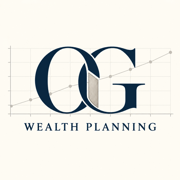
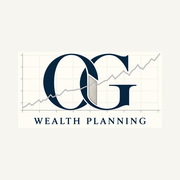
Apply final approved wealth or delegated insurance brand identity

Changed region(s): [[0.0556, 0.25, 0.8889, 0.75], [0.9167, 0.2778, 0.9722, 0.3056]]

diff --git a/privacy.html b/privacy.html
@@ -1,4 +1,4 @@
-<!doctype html><html lang="he" dir="rtl"><head><meta charset="utf-8"><meta name="viewport" content="width=device-width,initial-scale=1"><title>מדיניות פרטיות | אור גולדברג - תכנון עושר אישי בראייה רחבה</title><link rel="stylesheet" href="/legal.css"><link rel="canonical" href="https://orgoldberg.com/privacy.html"><meta name="robots" content="noindex,follow"><meta name="theme-color" content="#06231A"><link rel="apple-touch-icon" sizes="180x180" href="/assets/apple-touch-icon.png"></head><body><a class="skip-link" href="#main-content">דילוג לתוכן</a><main id="main-content" class="legal-page" tabindex="-1"><a href="/">חזרה לאתר אור גולדברג - תכנון עושר אישי בראייה רחבה</a><h1>מדיניות פרטיות</h1><p>עודכן: 8 בנובמבר 2026</p><h2>מי מפעיל את האתר</h2><p>האתר orgoldberg.com, תחת המותג אור גולדברג - תכנון עושר אישי בראייה רחבה, מופעל בידי אור גולדברג. לפניות בנושא פרטיות, עיון במידע או תיקונו: <a href="mailto:orws88@gmail.com">orws88@gmail.com</a>.</p><h2>גלישה באתר</h2><p>במועד העדכון זהו אתר מידע ללא טופס פנייה או הרשמה. בדפים הציבוריים פועלים שני כלי מדידה: (1) Cloudflare Web Analytics — מדידה סטטיסטית של צפיות וביקורים ללא עוגיות וללא מעקב אחר גולשים בודדים, הפועלת אוטומטית; (2) Google Analytics 4 של Google — מדידה מבוססת עוגיות המופעלת רק לאחר אישור בבאנר ההסכמה, עם אנונימיזציה של כתובת IP. הבחירה נשמרת באחסון המקומי של הדפדפן (og-analytics-consent) וניתנת לשינוי בכל עת על ידי ניקוי נתוני האתר בדפדפן. נתוני Google Analytics נשמרים עד 14 חודשים. בנוסף נרשמות לחיצות על קישורי טלפון, WhatsApp ודוא"ל כאירועי מדידה. קובצי האתר, הגופנים ותוסף הנגישות מוגשים מאירוח האתר, ללא טעינת תוסף מרשת הפצה חיצונית.</p><p>האתר מאוחסן ב-GitHub Pages. לפי <a href="https://docs.github.com/en/pages/getting-started-with-github-pages/what-is-github-pages">תיעוד GitHub</a>, כתובת ה-IP של המבקר נרשמת ונשמרת בידי ספק האירוח לצורכי אבטחה, גם ללא כניסה לחשבון GitHub. מידע נוסף ב<a href="https://docs.github.com/en/site-policy/privacy-policies/github-general-privacy-statement">מדיניות GitHub</a>. אין כאן הבטחה להעדר איסוף מידע טכני.</p><h2>העדפות נגישות במכשיר</h2><p>תוסף הנגישות OpenNagish שומר את הבחירות שלכם באחסון המקומי של הדפדפן תחת opennagish_prefs, כדי להחיל אותן בביקור הבא. ניתן לאפס אותן בתפריט התוסף או לנקות נתוני אתר בדפדפן. בבדיקת הקוד של הגרסה המוגשת לא נמצא מנגנון דיווח נתונים לשרת של מפתח התוסף. הקראה, אם בחרתם להפעיל אותה, משתמשת ביכולת הדיבור של הדפדפן וכפופה למימוש ולתנאי הדפדפן והמכשיר.</p><h2>פנייה בטלפון או ב-WhatsApp</h2><p>הפנייה לבחירתכם ואינה חובה. לחיצה על קישור עוברת לשירות חיצוני, שהשימוש בו כפוף לתנאיו ולמדיניותו. אם תפנו, נקבל את הפרטים שמסרתם, כגון שם, מספר טלפון ותוכן הפנייה, לצורך טיפול בפנייה וחזרה אליכם. בלי פרטי קשר או מידע חיוני ייתכן שלא נוכל להשיב. אין לשלוח בפנייה ראשונית מסמכים פיננסיים, מידע רפואי, סיסמאות או מידע סודי.</p><p>פנייה אינה הסכמה אוטומטית לדיוור שיווקי. אין להעביר פנייה למותג אחר או למטרה חדשה ללא יידוע ובסיס מתאים.</p><h2>טיפול נוסף במידע</h2><p>מדיניות זו מתארת את הגלישה ואת הפנייה הראשונית. לפני איסוף מידע רגיש, פתיחת תיק לקוח או הפעלת שירות AI המטפל בפנייה, יימסרו פרטים על השירות, בעלי הגישה והספקים הרלוונטיים. אין לשלוח מידע נוסף כזה עד להסדרת ערוץ מתאים. מדיניות זו אינה מצהירה שקיים מענה AI פעיל או מנגנון מחיקה אוטומטי.</p><h2>זכויות ושמירה</h2><p>ניתן לפנות בבקשה לעיון, תיקון או מחיקה של מידע. הבקשה תיבדק לאחר אימות מתאים ובכפוף לדין ולחובות שמירה החלות על שירות מקצועי. לפניות פרטיות: <a href="mailto:orws88@gmail.com">orws88@gmail.com</a>. אין כאן הבטחה למחיקה אוטומטית או גורפת של גיבויים.</p><h2>עדכונים</h2><p>שינוי מהותי בטיפול במידע ילווה בעדכון המדיניות וביידוע או בקבלת הסכמה כאשר נדרשים. תאריך העדכון מופיע בראש הדף.</p></main><footer class="legal-footer"><nav class="legal-links" aria-label="מידע משפטי ונגישות"><a href="/terms.html">תקנון ותנאי שימוש</a><a href="/privacy.html">מדיניות פרטיות</a><a href="/accessibility.html">הצהרת נגישות</a></nav><p>אור גולדברג · <a href="mailto:orws88@gmail.com">orws88@gmail.com</a> · <a href="tel:+972545696422"><bdi>054-569-6422</bdi></a></p></footer><script src="/assets/accessibility/config.js" defer></script><script src="/assets/accessibility/open-nagish.min.js" defer></script><!-- Site analytics: consent banner + GA4 (consent-gated) + Cloudflare Web Analytics (cookieless) -->
+<!doctype html><html lang="he" dir="rtl"><head><meta charset="utf-8"><meta name="viewport" content="width=device-width,initial-scale=1"><title>מדיניות פרטיות | אור גולדברג - תכנון עושר אישי בראייה רחבה</title><link rel="stylesheet" href="/legal.css"><link rel="canonical" href="https://orgoldberg.com/privacy.html"><meta name="robots" content="noindex,follow"><meta name="theme-color" content="#06231A"><link rel="apple-touch-icon" sizes="180x180" href="/assets/apple-touch-icon.png?v=20261110-final"></head><body><a class="skip-link" href="#main-content">דילוג לתוכן</a><main id="main-content" class="legal-page" tabindex="-1"><a href="/">חזרה לאתר אור גולדברג - תכנון עושר אישי בראייה רחבה</a><h1>מדיניות פרטיות</h1><p>עודכן: 8 בנובמבר 2026</p><h2>מי מפעיל את האתר</h2><p>האתר orgoldberg.com, תחת המותג אור גולדברג - תכנון עושר אישי בראייה רחבה, מופעל בידי אור גולדברג. לפניות בנושא פרטיות, עיון במידע או תיקונו: <a href="mailto:orws88@gmail.com">orws88@gmail.com</a>.</p><h2>גלישה באתר</h2><p>במועד העדכון זהו אתר מידע ללא טופס פנייה או הרשמה. בדפים הציבוריים פועלים שני כלי מדידה: (1) Cloudflare Web Analytics — מדידה סטטיסטית של צפיות וביקורים ללא עוגיות וללא מעקב אחר גולשים בודדים, הפועלת אוטומטית; (2) Google Analytics 4 של Google — מדידה מבוססת עוגיות המופעלת רק לאחר אישור בבאנר ההסכמה, עם אנונימיזציה של כתובת IP. הבחירה נשמרת באחסון המקומי של הדפדפן (og-analytics-consent) וניתנת לשינוי בכל עת על ידי ניקוי נתוני האתר בדפדפן. נתוני Google Analytics נשמרים עד 14 חודשים. בנוסף נרשמות לחיצות על קישורי טלפון, WhatsApp ודוא"ל כאירועי מדידה. קובצי האתר, הגופנים ותוסף הנגישות מוגשים מאירוח האתר, ללא טעינת תוסף מרשת הפצה חיצונית.</p><p>האתר מאוחסן ב-GitHub Pages. לפי <a href="https://docs.github.com/en/pages/getting-started-with-github-pages/what-is-github-pages">תיעוד GitHub</a>, כתובת ה-IP של המבקר נרשמת ונשמרת בידי ספק האירוח לצורכי אבטחה, גם ללא כניסה לחשבון GitHub. מידע נוסף ב<a href="https://docs.github.com/en/site-policy/privacy-policies/github-general-privacy-statement">מדיניות GitHub</a>. אין כאן הבטחה להעדר איסוף מידע טכני.</p><h2>העדפות נגישות במכשיר</h2><p>תוסף הנגישות OpenNagish שומר את הבחירות שלכם באחסון המקומי של הדפדפן תחת opennagish_prefs, כדי להחיל אותן בביקור הבא. ניתן לאפס אותן בתפריט התוסף או לנקות נתוני אתר בדפדפן. בבדיקת הקוד של הגרסה המוגשת לא נמצא מנגנון דיווח נתונים לשרת של מפתח התוסף. הקראה, אם בחרתם להפעיל אותה, משתמשת ביכולת הדיבור של הדפדפן וכפופה למימוש ולתנאי הדפדפן והמכשיר.</p><h2>פנייה בטלפון או ב-WhatsApp</h2><p>הפנייה לבחירתכם ואינה חובה. לחיצה על קישור עוברת לשירות חיצוני, שהשימוש בו כפוף לתנאיו ולמדיניותו. אם תפנו, נקבל את הפרטים שמסרתם, כגון שם, מספר טלפון ותוכן הפנייה, לצורך טיפול בפנייה וחזרה אליכם. בלי פרטי קשר או מידע חיוני ייתכן שלא נוכל להשיב. אין לשלוח בפנייה ראשונית מסמכים פיננסיים, מידע רפואי, סיסמאות או מידע סודי.</p><p>פנייה אינה הסכמה אוטומטית לדיוור שיווקי. אין להעביר פנייה למותג אחר או למטרה חדשה ללא יידוע ובסיס מתאים.</p><h2>טיפול נוסף במידע</h2><p>מדיניות זו מתארת את הגלישה ואת הפנייה הראשונית. לפני איסוף מידע רגיש, פתיחת תיק לקוח או הפעלת שירות AI המטפל בפנייה, יימסרו פרטים על השירות, בעלי הגישה והספקים הרלוונטיים. אין לשלוח מידע נוסף כזה עד להסדרת ערוץ מתאים. מדיניות זו אינה מצהירה שקיים מענה AI פעיל או מנגנון מחיקה אוטומטי.</p><h2>זכויות ושמירה</h2><p>ניתן לפנות בבקשה לעיון, תיקון או מחיקה של מידע. הבקשה תיבדק לאחר אימות מתאים ובכפוף לדין ולחובות שמירה החלות על שירות מקצועי. לפניות פרטיות: <a href="mailto:orws88@gmail.com">orws88@gmail.com</a>. אין כאן הבטחה למחיקה אוטומטית או גורפת של גיבויים.</p><h2>עדכונים</h2><p>שינוי מהותי בטיפול במידע ילווה בעדכון המדיניות וביידוע או בקבלת הסכמה כאשר נדרשים. תאריך העדכון מופיע בראש הדף.</p></main><footer class="legal-footer"><nav class="legal-links" aria-label="מידע משפטי ונגישות"><a href="/terms.html">תקנון ותנאי שימוש</a><a href="/privacy.html">מדיניות פרטיות</a><a href="/accessibility.html">הצהרת נגישות</a></nav><p>אור גולדברג · <a href="mailto:orws88@gmail.com">orws88@gmail.com</a> · <a href="tel:+972545696422"><bdi>054-569-6422</bdi></a></p></footer><script src="/assets/accessibility/config.js" defer></script><script src="/assets/accessibility/open-nagish.min.js" defer></script><!-- Site analytics: consent banner + GA4 (consent-gated) + Cloudflare Web Analytics (cookieless) -->
 <script>
 (function(){
   var GA_ID='G-ND92RKX6HL', CF_TOKEN='222b8e0c30a34464a471d2021f984e12', ACCENT='#B08A2E';

diff --git a/terms.html b/terms.html
@@ -1,4 +1,4 @@
-<!doctype html><html lang="he" dir="rtl"><head><meta charset="utf-8"><meta name="viewport" content="width=device-width,initial-scale=1"><title>תקנון ותנאי שימוש | אור גולדברג - תכנון עושר אישי בראייה רחבה</title><link rel="stylesheet" href="/legal.css"><link rel="canonical" href="https://orgoldberg.com/terms.html"><meta name="robots" content="noindex,follow"><meta name="theme-color" content="#06231A"><link rel="apple-touch-icon" sizes="180x180" href="/assets/apple-touch-icon.png"></head><body><a class="skip-link" href="#main-content">דילוג לתוכן</a><main id="main-content" class="legal-page" tabindex="-1"><a href="/">חזרה לאתר אור גולדברג - תכנון עושר אישי בראייה רחבה</a><h1>תקנון ותנאי שימוש</h1><p>עודכן: 6 בנובמבר 2026</p><h2>מפעיל האתר והשירות</h2><p>האתר orgoldberg.com מופעל בידי אור גולדברג, תחת המותג אור גולדברג - תכנון עושר אישי בראייה רחבה. לפניות: <a href="mailto:orws88@gmail.com">orws88@gmail.com</a> או <a href="tel:+972545696422"><bdi>054-569-6422</bdi></a>.</p><p>האתר מציג מידע כללי על השירותים. גלישה או פנייה אינן יוצרות כשלעצמן התקשרות מקצועית או התחייבות למתן שירות. היקף השירות, התמורה, האחריות ולוחות הזמנים ייקבעו בהסכם נפרד, לפי העניין.</p><h2>המידע באתר</h2><p>התכנים הם מידע כללי והמחשה בלבד. אין בהם המלצה למוצר או לפעולה בנכס מסוים, והם אינם תחליף לבירור אישי ולהליך מקצועי מתאים. לא ניתן ייעוץ השקעות בניירות ערך או בנכסים פיננסיים לפי חוק ייעוץ השקעות. הלקוח מחליט ומאשר כל פעולה.</p><p>השקעות ומוצרים פיננסיים כרוכים בסיכון להפסד. אין התחייבות לתשואה, לרווח, לשמירת הקרן או להשגת יעד. תשואות עבר אינן מבטיחות תשואות עתיד.</p><h2>רישיון ותגמול</h2><p>אור גולדברג, מתכנן פיננסי, משפטן וכלכלן, בעל רישיון בענף הפנסיוני, מס' רישיון <bdi>L-00135592</bdi>. תגמול: שכר מלקוחות ועמלות מחברות ביטוח וגופים מוסדיים. הפירוט נמסר לפני התקשרות.</p><h2>שימוש מותר וקישורים</h2><p>יש להשתמש באתר כדין, בלי לפגוע בפרטיות, בזכויות אחרים או בתקינות האתר. הזכויות בתכנים שמורות לבעליהן, בכפוף לכל שימוש מותר לפי דין. קישורים לשירותים חיצוניים כפופים לתנאי אותם שירותים; עצם הקישור אינו התחייבות לזמינות או להתאמה.</p><h2>אחריות ודין</h2><p>אחריות המפעיל תיבחן לפי הדין והסכם השירות החל. אין בתנאים אלה פטור מאחריות שהדין אינו מתיר לפטור ממנה או ויתור על זכויות שאינן ניתנות להתניה. הדין הישראלי יחול בכפוף להוראות דין מחייבות; סמכות השיפוט תיקבע לפי הדין.</p></main><footer class="legal-footer"><nav class="legal-links" aria-label="מידע משפטי ונגישות"><a href="/terms.html">תקנון ותנאי שימוש</a><a href="/privacy.html">מדיניות פרטיות</a><a href="/accessibility.html">הצהרת נגישות</a></nav><p>אור גולדברג · <a href="mailto:orws88@gmail.com">orws88@gmail.com</a> · <a href="tel:+972545696422"><bdi>054-569-6422</bdi></a></p></footer><script src="/assets/accessibility/config.js" defer></script><script src="/assets/accessibility/open-nagish.min.js" defer></script><!-- Site analytics: consent banner + GA4 (consent-gated) + Cloudflare Web Analytics (cookieless) -->
+<!doctype html><html lang="he" dir="rtl"><head><meta charset="utf-8"><meta name="viewport" content="width=device-width,initial-scale=1"><title>תקנון ותנאי שימוש | אור גולדברג - תכנון עושר אישי בראייה רחבה</title><link rel="stylesheet" href="/legal.css"><link rel="canonical" href="https://orgoldberg.com/terms.html"><meta name="robots" content="noindex,follow"><meta name="theme-color" content="#06231A"><link rel="apple-touch-icon" sizes="180x180" href="/assets/apple-touch-icon.png?v=20261110-final"></head><body><a class="skip-link" href="#main-content">דילוג לתוכן</a><main id="main-content" class="legal-page" tabindex="-1"><a href="/">חזרה לאתר אור גולדברג - תכנון עושר אישי בראייה רחבה</a><h1>תקנון ותנאי שימוש</h1><p>עודכן: 6 בנובמבר 2026</p><h2>מפעיל האתר והשירות</h2><p>האתר orgoldberg.com מופעל בידי אור גולדברג, תחת המותג אור גולדברג - תכנון עושר אישי בראייה רחבה. לפניות: <a href="mailto:orws88@gmail.com">orws88@gmail.com</a> או <a href="tel:+972545696422"><bdi>054-569-6422</bdi></a>.</p><p>האתר מציג מידע כללי על השירותים. גלישה או פנייה אינן יוצרות כשלעצמן התקשרות מקצועית או התחייבות למתן שירות. היקף השירות, התמורה, האחריות ולוחות הזמנים ייקבעו בהסכם נפרד, לפי העניין.</p><h2>המידע באתר</h2><p>התכנים הם מידע כללי והמחשה בלבד. אין בהם המלצה למוצר או לפעולה בנכס מסוים, והם אינם תחליף לבירור אישי ולהליך מקצועי מתאים. לא ניתן ייעוץ השקעות בניירות ערך או בנכסים פיננסיים לפי חוק ייעוץ השקעות. הלקוח מחליט ומאשר כל פעולה.</p><p>השקעות ומוצרים פיננסיים כרוכים בסיכון להפסד. אין התחייבות לתשואה, לרווח, לשמירת הקרן או להשגת יעד. תשואות עבר אינן מבטיחות תשואות עתיד.</p><h2>רישיון ותגמול</h2><p>אור גולדברג, מתכנן פיננסי, משפטן וכלכלן, בעל רישיון בענף הפנסיוני, מס' רישיון <bdi>L-00135592</bdi>. תגמול: שכר מלקוחות ועמלות מחברות ביטוח וגופים מוסדיים. הפירוט נמסר לפני התקשרות.</p><h2>שימוש מותר וקישורים</h2><p>יש להשתמש באתר כדין, בלי לפגוע בפרטיות, בזכויות אחרים או בתקינות האתר. הזכויות בתכנים שמורות לבעליהן, בכפוף לכל שימוש מותר לפי דין. קישורים לשירותים חיצוניים כפופים לתנאי אותם שירותים; עצם הקישור אינו התחייבות לזמינות או להתאמה.</p><h2>אחריות ודין</h2><p>אחריות המפעיל תיבחן לפי הדין והסכם השירות החל. אין בתנאים אלה פטור מאחריות שהדין אינו מתיר לפטור ממנה או ויתור על זכויות שאינן ניתנות להתניה. הדין הישראלי יחול בכפוף להוראות דין מחייבות; סמכות השיפוט תיקבע לפי הדין.</p></main><footer class="legal-footer"><nav class="legal-links" aria-label="מידע משפטי ונגישות"><a href="/terms.html">תקנון ותנאי שימוש</a><a href="/privacy.html">מדיניות פרטיות</a><a href="/accessibility.html">הצהרת נגישות</a></nav><p>אור גולדברג · <a href="mailto:orws88@gmail.com">orws88@gmail.com</a> · <a href="tel:+972545696422"><bdi>054-569-6422</bdi></a></p></footer><script src="/assets/accessibility/config.js" defer></script><script src="/assets/accessibility/open-nagish.min.js" defer></script><!-- Site analytics: consent banner + GA4 (consent-gated) + Cloudflare Web Analytics (cookieless) -->
 <script>
 (function(){
   var GA_ID='G-ND92RKX6HL', CF_TOKEN='222b8e0c30a34464a471d2021f984e12', ACCENT='#B08A2E';

diff --git a/accessibility.html b/accessibility.html
@@ -1,4 +1,4 @@
-<!doctype html><html lang="he" dir="rtl"><head><meta charset="utf-8"><meta name="viewport" content="width=device-width,initial-scale=1"><title>הצהרת נגישות | אור גולדברג - תכנון עושר אישי בראייה רחבה</title><link rel="stylesheet" href="/legal.css"><link rel="canonical" href="https://orgoldberg.com/accessibility.html"><meta name="robots" content="noindex,follow"><meta name="theme-color" content="#06231A"><link rel="apple-touch-icon" sizes="180x180" href="/assets/apple-touch-icon.png"></head><body><a class="skip-link" href="#main-content">דילוג לתוכן</a><main id="main-content" class="legal-page" tabindex="-1"><a href="/">חזרה לאתר אור גולדברג - תכנון עושר אישי בראייה רחבה</a><h1>הצהרת נגישות</h1><p>עודכן: 6 בנובמבר 2026</p><h2>נגישות האתר</h2><p>אנו פועלים לשפר את נגישות האתר בהתאם לדרישות החלות בישראל וליעד ת"י 5568 והנחיות WCAG 2.0 ברמה AA. הוספת תוסף אינה אישור תאימות, ואיננו מציגים כאן הסמכה או טענה שבוצעה בדיקת נגישות מלאה.</p><h2>התאמות באתר</h2><ul><li>שפת דף וכיוון עברית, כותרות מדורגות וחלופות טקסט לתמונות.</li><li>קישור דילוג לתוכן, סימון פוקוס ברור וקישורים נגישים למקלדת.</li><li>התאמה למסכים צרים ותמיכה בהעדפת צמצום תנועה של המכשיר.</li><li>סרגל נגישות חינמי בעברית: התאמות גודל טקסט, ניגודיות, קישורים, פוקוס, עזרי קריאה ואיפוס. העדפות נשמרות בדפדפן בלבד.</li></ul><h2>שימוש במקלדת ובסרגל</h2><p>אפשר לעבור בין קישורים וכפתורים באמצעות Tab ו-Shift+Tab, ולהפעילם באמצעות Enter או רווח לפי סוג הרכיב. כפתור הנגישות נמצא בתחתית המסך. Alt+A פותח וסוגר את הסרגל; Escape סוגר אותו. אפשר להגדיל את האתר גם באמצעות בקרת ההגדלה בדפדפן.</p><h2>בדיקה ומגבלות</h2><p>בוצעה בדיקה פנימית נקודתית בעת העדכון של מבנה הדף, מקלדת ופוקוס, ניגודיות וטקסט מוגדל, וכן תצוגה במחשב ובנייד. זו אינה בדיקת מורשה נגישות או אישור מלא לכל טכנולוגיה מסייעת. הקראה תלויה בקולות הזמינים בדפדפן; אין הבטחה שקול עברי זמין בכל מכשיר. שירותים חיצוניים שאליהם מפנים קישורים נמצאים באחריות מפעיליהם.</p><h2>קשר וסיוע</h2><p>נתקלתם בקושי? פנו לאור גולדברג בכתובת <a href="mailto:orws88@gmail.com">orws88@gmail.com</a> או בטלפון <a href="tel:+972545696422"><bdi>054-569-6422</bdi></a>. אפשר לציין את כתובת הדף, הפעולה שניסיתם לבצע, הדפדפן וסוג הקושי, ללא מידע רגיש. נבדוק את הפנייה ונפעל לספק את המידע בדרך מתאימה.</p></main><footer class="legal-footer"><nav class="legal-links" aria-label="מידע משפטי ונגישות"><a href="/terms.html">תקנון ותנאי שימוש</a><a href="/privacy.html">מדיניות פרטיות</a><a href="/accessibility.html">הצהרת נגישות</a></nav><p>אור גולדברג · <a href="mailto:orws88@gmail.com">orws88@gmail.com</a> · <a href="tel:+972545696422"><bdi>054-569-6422</bdi></a></p></footer><script src="/assets/accessibility/config.js" defer></script><script src="/assets/accessibility/open-nagish.min.js" defer></script><!-- Site analytics: consent banner + GA4 (consent-gated) + Cloudflare Web Analytics (cookieless) -->
+<!doctype html><html lang="he" dir="rtl"><head><meta charset="utf-8"><meta name="viewport" content="width=device-width,initial-scale=1"><title>הצהרת נגישות | אור גולדברג - תכנון עושר אישי בראייה רחבה</title><link rel="stylesheet" href="/legal.css"><link rel="canonical" href="https://orgoldberg.com/accessibility.html"><meta name="robots" content="noindex,follow"><meta name="theme-color" content="#06231A"><link rel="apple-touch-icon" sizes="180x180" href="/assets/apple-touch-icon.png?v=20261110-final"></head><body><a class="skip-link" href="#main-content">דילוג לתוכן</a><main id="main-content" class="legal-page" tabindex="-1"><a href="/">חזרה לאתר אור גולדברג - תכנון עושר אישי בראייה רחבה</a><h1>הצהרת נגישות</h1><p>עודכן: 6 בנובמבר 2026</p><h2>נגישות האתר</h2><p>אנו פועלים לשפר את נגישות האתר בהתאם לדרישות החלות בישראל וליעד ת"י 5568 והנחיות WCAG 2.0 ברמה AA. הוספת תוסף אינה אישור תאימות, ואיננו מציגים כאן הסמכה או טענה שבוצעה בדיקת נגישות מלאה.</p><h2>התאמות באתר</h2><ul><li>שפת דף וכיוון עברית, כותרות מדורגות וחלופות טקסט לתמונות.</li><li>קישור דילוג לתוכן, סימון פוקוס ברור וקישורים נגישים למקלדת.</li><li>התאמה למסכים צרים ותמיכה בהעדפת צמצום תנועה של המכשיר.</li><li>סרגל נגישות חינמי בעברית: התאמות גודל טקסט, ניגודיות, קישורים, פוקוס, עזרי קריאה ואיפוס. העדפות נשמרות בדפדפן בלבד.</li></ul><h2>שימוש במקלדת ובסרגל</h2><p>אפשר לעבור בין קישורים וכפתורים באמצעות Tab ו-Shift+Tab, ולהפעילם באמצעות Enter או רווח לפי סוג הרכיב. כפתור הנגישות נמצא בתחתית המסך. Alt+A פותח וסוגר את הסרגל; Escape סוגר אותו. אפשר להגדיל את האתר גם באמצעות בקרת ההגדלה בדפדפן.</p><h2>בדיקה ומגבלות</h2><p>בוצעה בדיקה פנימית נקודתית בעת העדכון של מבנה הדף, מקלדת ופוקוס, ניגודיות וטקסט מוגדל, וכן תצוגה במחשב ובנייד. זו אינה בדיקת מורשה נגישות או אישור מלא לכל טכנולוגיה מסייעת. הקראה תלויה בקולות הזמינים בדפדפן; אין הבטחה שקול עברי זמין בכל מכשיר. שירותים חיצוניים שאליהם מפנים קישורים נמצאים באחריות מפעיליהם.</p><h2>קשר וסיוע</h2><p>נתקלתם בקושי? פנו לאור גולדברג בכתובת <a href="mailto:orws88@gmail.com">orws88@gmail.com</a> או בטלפון <a href="tel:+972545696422"><bdi>054-569-6422</bdi></a>. אפשר לציין את כתובת הדף, הפעולה שניסיתם לבצע, הדפדפן וסוג הקושי, ללא מידע רגיש. נבדוק את הפנייה ונפעל לספק את המידע בדרך מתאימה.</p></main><footer class="legal-footer"><nav class="legal-links" aria-label="מידע משפטי ונגישות"><a href="/terms.html">תקנון ותנאי שימוש</a><a href="/privacy.html">מדיניות פרטיות</a><a href="/accessibility.html">הצהרת נגישות</a></nav><p>אור גולדברג · <a href="mailto:orws88@gmail.com">orws88@gmail.com</a> · <a href="tel:+972545696422"><bdi>054-569-6422</bdi></a></p></footer><script src="/assets/accessibility/config.js" defer></script><script src="/assets/accessibility/open-nagish.min.js" defer></script><!-- Site analytics: consent banner + GA4 (consent-gated) + Cloudflare Web Analytics (cookieless) -->
 <script>
 (function(){
   var GA_ID='G-ND92RKX6HL', CF_TOKEN='222b8e0c30a34464a471d2021f984e12', ACCENT='#B08A2E';

diff --git a/index.html b/index.html
@@ -14,11 +14,11 @@
 <script type="application/ld+json">
 {"@context":"https://schema.org","@graph":[{"@type":"ProfessionalService","name":"אור גולדברג - תכנון עושר אישי בראייה רחבה","url":"https://orgoldberg.com/","telephone":"+972-54-569-6422","areaServed":"קריית מוצקין והסביבה","sameAs":["https://www.instagram.com/or.goldberg.financial/","https://www.linkedin.com/company/or-goldberg-financial-planning/"],"description":"תכנון פיננסי כולל, פנסיה והשקעות, ומנוי ליווי חודשי לבעלי הון.","@id":"https://orgoldberg.com/#business","founder":{"@id":"https://orgoldberg.com/#or-goldberg"},"knowsAbout":["תכנון פיננסי כולל","פנסיה ופרישה","משפחה ודור הבא"]},{"@type":"Person","@id":"https://orgoldberg.com/#or-goldberg","name":"אור גולדברג","url":"https://orgoldberg.com/","hasCredential":{"@type":"EducationalOccupationalCredential","credentialCategory":"רישיון בענף הפנסיוני","identifier":"L-00135592"}},{"@type":"WebSite","@id":"https://orgoldberg.com/#website","url":"https://orgoldberg.com/","name":"אור גולדברג - תכנון עושר אישי בראייה רחבה","inLanguage":"he","publisher":{"@id":"https://orgoldberg.com/#business"}}]}
 </script>
-<link rel="icon" type="image/png" sizes="64x64" href="/assets/favicon.png">
+<link rel="icon" type="image/png" href="/assets/favicon.png?v=20261110-grey-final">
 <link rel="stylesheet" href="style.css?v=240f01b25ebd">
 <link rel="stylesheet" href="/legal.css"><script type="application/ld+json">{"@context": "https://schema.org", "@type": "FAQPage", "mainEntity": [{"@type": "Question", "name": "למי מתאים הליווי?", "acceptedAnswer": {"@type": "Answer", "text": "לבעלי הון מעל 4 מיליון ₪ שרוצים איש מקצוע אחד שרואה את כל התמונה - פנסיה, השקעות וחסכונות - וליווי קבוע לאורך זמן."}}, {"@type": "Question", "name": "כמה עולה הליווי?", "acceptedAnswer": {"@type": "Answer", "text": "תנאי מנוי הליווי נקבעים מול כל לקוח בפגישת ההיכרות. המנוי כולל ליווי שוטף. דמי ייעוץ נפרדים נגבים מהפגישה השנייה ואילך. במוצרים פנסיוניים (קופות גמל, קרנות השתלמות, פוליסות חיסכון, גמל להשקעה) ייתכנו עמלות מהחברות - בשקיפות מלאה מראש."}}, {"@type": "Question", "name": "מה קורה בפגישת ההיכרות?", "acceptedAnswer": {"@type": "Answer", "text": "שיחה קצרה על המצב, המטרות והשאלות שלכם. אם יש התאמה - מתחילים בתהליך מסודר."}}, {"@type": "Question", "name": "באילו תחומים ניתן הליווי?", "acceptedAnswer": {"@type": "Answer", "text": "תכנון פיננסי כולל, פנסיה ופרישה, השקעות וניהול הון, ומשפחה ודור הבא - חסכונות לילדים, העברות בין דוריות וסדר בירושות."}}]}</script>
 <meta name="theme-color" content="#06231A">
-<link rel="apple-touch-icon" sizes="180x180" href="/assets/apple-touch-icon.png">
+<link rel="apple-touch-icon" sizes="180x180" href="/assets/apple-touch-icon.png?v=20261110-final">
 </head><body><a class="skip-link" href="#main-content">דילוג לתוכן</a>
 <div class="site">
 <header class="topbar"><div class="wrap bar-in"><a class="brand-side brand-home" href="/" aria-label="בית"><img class="wealth-logo" src="assets/og-grid-line-approved.webp" alt="OG Wealth Planning" width="1012" height="535" decoding="async" loading="eager"></a><div class="brand-lockup header-name"><div class="brand">אור גולדברג</div><div class="brand-slogan">תכנון עושר אישי בראייה רחבה</div></div><div class="brand-side"><a class="phonepill" href="tel:+972545696422"><span dir="ltr">054-569-6422</span></a><nav class="topnav" aria-label="ניווט ראשי"><a href="/">בית</a><a href="/blog/">מאמרים</a><a href="#services">תחומי ליווי</a><a href="#member">מנוי ליווי</a><a href="#about">אודות</a><a href="#faq">שאלות</a><a href="#contact">יצירת קשר</a></nav><details class="mobile-menu"><summary aria-label="פתיחת תפריט הניווט"><span aria-hidden="true" class="menu-lines"><i></i><i></i><i></i></span><span>תפריט</span></summary><nav class="mobile-nav" aria-label="ניווט בנייד"><a href="/">בית</a><a href="/blog/">מאמרים</a><a href="#services">תחומי ליווי</a><a href="#member">מנוי ליווי</a><a href="#about">אודות</a><a href="#faq">שאלות</a><a href="#contact">יצירת קשר</a></nav></details></div></div></header>

diff --git a/404.html b/404.html
@@ -1,1 +1,1 @@
-<!doctype html><html lang="he" dir="rtl"><head><meta charset="utf-8"><meta name="viewport" content="width=device-width,initial-scale=1"><meta name="robots" content="noindex,follow"><meta name="theme-color" content="#06231A"><title>העמוד לא נמצא | אור גולדברג | תכנון עושר אישי בראייה רחבה</title><link rel="icon" href="/assets/favicon.png"><link rel="apple-touch-icon" sizes="180x180" href="/assets/apple-touch-icon.png"><link rel="stylesheet" href="/legal.css"><style>html{font-family:system-ui,sans-serif;line-height:1.7;background:#f7f2e7;color:#12211a}body{margin:0}a{color:#06231A}main{max-width:700px;margin:10vh auto;padding:32px 24px}.brand{color:#06231A;font-weight:bold;font-size:20px}h1{font-size:clamp(2rem,7vw,3.5rem)}a{display:inline-block;margin:8px;padding:12px}nav{margin-top:32px}.home{border:1px solid currentColor;border-radius:8px}</style></head><body><main><p class="brand">אור גולדברג | תכנון עושר אישי בראייה רחבה</p><p aria-hidden="true">404</p><h1>העמוד לא נמצא</h1><p>אפשר לחזור לדף הבית או להיעזר בקישורים הבאים.</p><a class="home" href="/">לדף הבית</a><nav aria-label="מידע נוסף"><a href="/privacy.html">מדיניות פרטיות</a><a href="/terms.html">תקנון ותנאי שימוש</a><a href="/accessibility.html">הצהרת נגישות</a></nav></main></body></html>
+<!doctype html><html lang="he" dir="rtl"><head><meta charset="utf-8"><meta name="viewport" content="width=device-width,initial-scale=1"><meta name="robots" content="noindex,follow"><meta name="theme-color" content="#06231A"><title>העמוד לא נמצא | אור גולדברג | תכנון עושר אישי בראייה רחבה</title><link rel="icon" type="image/png" href="/assets/favicon.png?v=20261110-grey-final"><link rel="apple-touch-icon" sizes="180x180" href="/assets/apple-touch-icon.png?v=20261110-final"><link rel="stylesheet" href="/legal.css"><style>html{font-family:system-ui,sans-serif;line-height:1.7;background:#f7f2e7;color:#12211a}body{margin:0}a{color:#06231A}main{max-width:700px;margin:10vh auto;padding:32px 24px}.brand{color:#06231A;font-weight:bold;font-size:20px}h1{font-size:clamp(2rem,7vw,3.5rem)}a{display:inline-block;margin:8px;padding:12px}nav{margin-top:32px}.home{border:1px solid currentColor;border-radius:8px}</style></head><body><main><p class="brand">אור גולדברג | תכנון עושר אישי בראייה רחבה</p><p aria-hidden="true">404</p><h1>העמוד לא נמצא</h1><p>אפשר לחזור לדף הבית או להיעזר בקישורים הבאים.</p><a class="home" href="/">לדף הבית</a><nav aria-label="מידע נוסף"><a href="/privacy.html">מדיניות פרטיות</a><a href="/terms.html">תקנון ותנאי שימוש</a><a href="/accessibility.html">הצהרת נגישות</a></nav></main></body></html>
